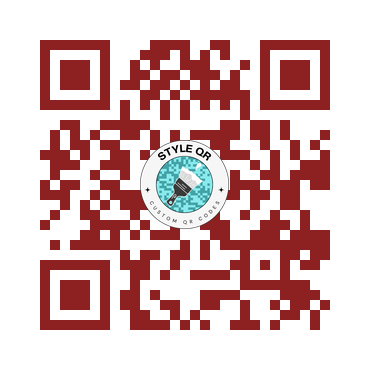
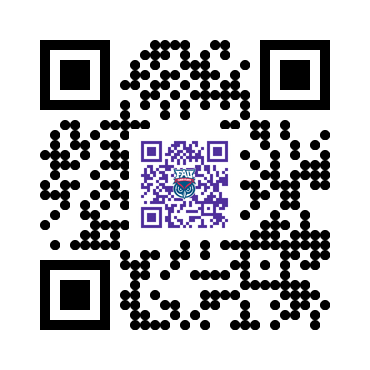
astetic changes to premium page. color wheel dispalys the color

diff --git a/templates/premium.html b/templates/premium.html
@@ -7,49 +7,83 @@
     <style>
         body {
             font-family: Arial, sans-serif;
-            background-color: #f4f4f9;
+            background-color: #EAF4F8; /* Matches the light blue in your logo */
             display: flex;
             justify-content: center;
-            align-items: center;
+            align-items: flex-start; /* Align items at the top with padding */
             height: 100vh;
             margin: 0;
+            padding-top: 20px; /* Ensures space above the logo */
         }
+
         .container {
-            text-align: center;
-            background-color: #ffffff;
+            background: #ffffff;
             padding: 30px;
-            border-radius: 10px;
-            box-shadow: 0 0 15px rgba(0, 0, 0, 0.1);
+            border-radius: 20px;
+            box-shadow: 0 0 20px rgba(0, 0, 0, 0.1);
             width: 100%;
-            max-width: 500px;
+            max-width: 400px;
+            text-align: center;
+            border: 5px solid #B7E3E4; /* Adds a complementary border */
+            position: relative;
         }
+
         img {
-            max-width: 40%;
+            margin-top: 0; /* No additional margin needed with body padding */
+            max-width: 60%; /* Keeps the size consistent */
             height: auto;
-            margin-bottom: 50px; /* Increased margin to move logo down */
+            margin-bottom: 20px;
         }
-        input, select, button {
+
+        label {
+            display: block;
+            margin: 15px 0 5px;
+            text-align: left;
+            color: #333333;
+            font-weight: bold;
+        }
+
+        input, select {
             width: 100%;
-            padding: 10px;
-            margin: 10px 0;
-            border: 1px solid #ccc;
-            border-radius: 5px;
+            padding: 12px;
+            margin-bottom: 15px;
+            border: 1px solid #cccccc;
+            border-radius: 8px;
+            font-size: 16px;
         }
+
+        input[type="color"] {
+            height: 40px;
+            padding: 0;
+        }
+
         button {
+            padding: 12px 15px;
+            border: none;
+            border-radius: 8px;
+            cursor: pointer;
+            font-size: 16px;
+        }
+
+        button.submit-btn {
             background-color: #4CAF50;
             color: white;
-            border: none;
-            cursor: pointer;
+            width: 100%;
+            margin-bottom: 10px;
         }
-        button:hover {
-            background-color: #45a049;
+
+        button.submit-btn:hover {
+            background-color: #45A049;
         }
+
         a {
             display: block;
             margin-top: 20px;
-            color: #007bff;
+            color: #007BFF;
             text-decoration: none;
+            font-size: 16px;
         }
+
         a:hover {
             text-decoration: underline;
         }
@@ -75,28 +109,29 @@
 </head>
 <body>
     <div class="container">
+        <!-- Logo -->
         <img src="{{ url_for('static', filename='StyleQRNEWNEW.png') }}" alt="Style QR Logo">
 
         <form action="{{ url_for('generate_qr') }}" method="POST" enctype="multipart/form-data">
             <label for="url">Enter URL:</label>
             <input type="text" id="url" name="url" placeholder="https://example.com" required>
 
-            <label for="color">Choose Color (Hex or Name):</label>
-            <input type="text" id="color" name="color" placeholder="e.g., #000000 or red">
+            <label for="color">Choose Color:</label>
+            <input type="text" id="color" name="color" placeholder="e.g., red">
 
-            <label for="colorPicker">Choose Color (RGB):</label>
+            <label for="colorPicker">Choose Color:</label>
             <input type="color" id="colorPicker" name="colorPicker" value="#000000">
             
             <label for="shape">Choose Data Pattern:</label>
             <select id="shape" name="shape">
                 <option value="square">Square</option>
-                <option value="circle">Circle</option>
+                <option value="circle">Circle (Black only available)</option>
             </select>
 
-            <label for="image">Upload Image/Logo for Center (Optional):</label>
+            <label for="image">Upload Image/Logo:</label>
             <input type="file" id="image" name="image" accept="image/*">
 
-            <button type="submit">Generate QR Code</button>
+            <button type="submit" class="submit-btn">Generate QR Code</button>
         </form>
 
         <a href="{{ url_for('home') }}">Back to Home</a>
